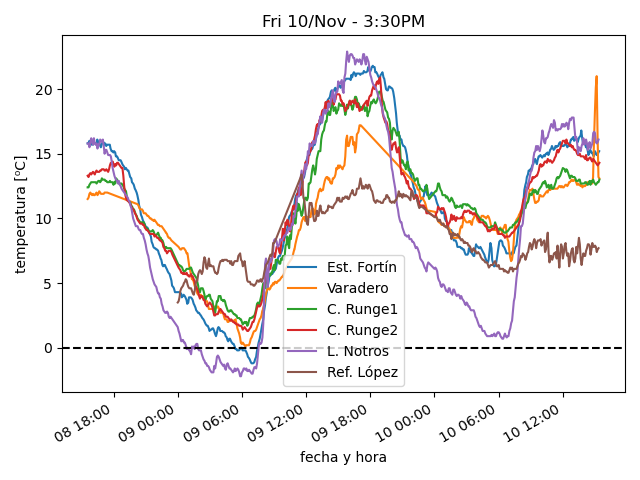
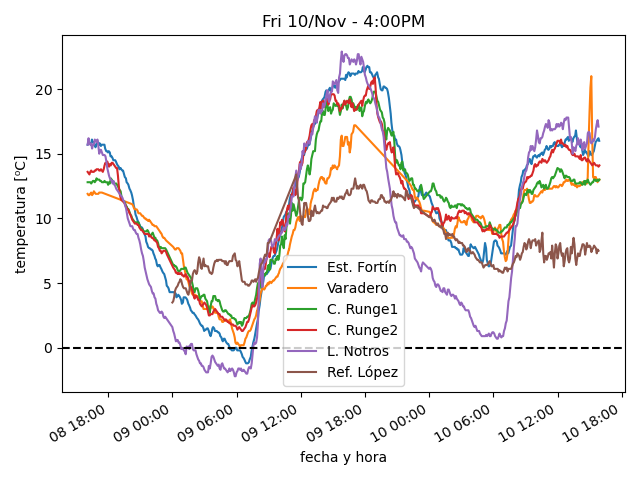
actualiza datos

diff --git a/estaciones/estacion1.html b/estaciones/estacion1.html
@@ -18,32 +18,32 @@
     </tr>
     <tr>
      <td class="stats_data">
-      3:23PM
+      3:53PM
      </td>
     </tr>
     <tr>
      <td class="stats_data">
-      15.2⁰C
+      16.0⁰C
      </td>
     </tr>
     <tr>
      <td class="stats_data">
-      4.2⁰C
+      3.6⁰C
      </td>
     </tr>
     <tr>
      <td class="stats_data">
-      47.5%
+      43.5%
      </td>
     </tr>
     <tr>
      <td class="stats_data">
-      1001.02hPa
+      1000.34hPa
      </td>
     </tr>
     <tr>
      <td class="stats_data">
-      31.5/31.4 km/hr SW
+      19.5/32.2 km/hr WNW
      </td>
     </tr>
     <tr>
@@ -53,12 +53,12 @@
     </tr>
     <tr>
      <td class="stats_data">
-      5.0
+      4.3
      </td>
     </tr>
     <tr>
      <td class="stats_data">
-      847.0 W/m²
+      788.0 W/m²
      </td>
     </tr>
    </tbody>

diff --git a/estaciones/estacion2.html b/estaciones/estacion2.html
@@ -18,32 +18,32 @@
     </tr>
     <tr>
      <td class="stats_data">
-      3:24PM
+      3:54PM
      </td>
     </tr>
     <tr>
      <td class="stats_data">
-      13.1⁰C
+      13.0⁰C
      </td>
     </tr>
     <tr>
      <td class="stats_data">
-      7.0⁰C
+      6.6⁰C
      </td>
     </tr>
     <tr>
      <td class="stats_data">
-      66.4%
+      65.2%
      </td>
     </tr>
     <tr>
      <td class="stats_data">
-      1009.72hPa
+      1009.31hPa
      </td>
     </tr>
     <tr>
      <td class="stats_data">
-      20.5/24.6 km/hr NNW
+      23.7/27.7 km/hr NW
      </td>
     </tr>
     <tr>
@@ -53,12 +53,12 @@
     </tr>
     <tr>
      <td class="stats_data">
-      7.0
+      8.0
      </td>
     </tr>
     <tr>
      <td class="stats_data">
-      753.5 W/m²
+      824.2 W/m²
      </td>
     </tr>
    </tbody>

diff --git a/estaciones/estacion4.html b/estaciones/estacion4.html
@@ -18,32 +18,32 @@
     </tr>
     <tr>
      <td class="stats_data">
-      3:24PM
+      3:54PM
      </td>
     </tr>
     <tr>
      <td class="stats_data">
-      14.3⁰C
+      14.1⁰C
      </td>
     </tr>
     <tr>
      <td class="stats_data">
-      4.5⁰C
+      4.2⁰C
      </td>
     </tr>
     <tr>
      <td class="stats_data">
-      51.7%
+      51.3%
      </td>
     </tr>
     <tr>
      <td class="stats_data">
-      1004.23hPa
+      1003.83hPa
      </td>
     </tr>
     <tr>
      <td class="stats_data">
-      5.3/8.4 km/hr SSW
+      4.5/6.7 km/hr SW
      </td>
     </tr>
     <tr>
@@ -58,7 +58,7 @@
     </tr>
     <tr>
      <td class="stats_data">
-      47.7 W/m²
+      44.2 W/m²
      </td>
     </tr>
    </tbody>

diff --git a/estaciones/estacion6.html b/estaciones/estacion6.html
@@ -18,17 +18,17 @@
     </tr>
     <tr>
      <td class="stats_data">
-      3:20PM
+      3:50PM
      </td>
     </tr>
     <tr>
      <td class="stats_data">
-      7.7⁰C
+      7.5⁰C
      </td>
     </tr>
     <tr>
      <td class="stats_data">
-      0.6⁰C
+      0.4⁰C
      </td>
     </tr>
     <tr>
@@ -38,12 +38,12 @@
     </tr>
     <tr>
      <td class="stats_data">
-      1000.98hPa
+      1000.78hPa
      </td>
     </tr>
     <tr>
      <td class="stats_data">
-      12.9/22.5 km/hr NNE
+      8.0/22.5 km/hr WNW
      </td>
     </tr>
     <tr>
@@ -58,7 +58,7 @@
     </tr>
     <tr>
      <td class="stats_data">
-      889.0 W/m²
+      893.0 W/m²
      </td>
     </tr>
    </tbody>

diff --git a/estaciones/estacion3.html b/estaciones/estacion3.html
@@ -18,7 +18,7 @@
     </tr>
     <tr>
      <td class="stats_data">
-      3:24PM
+      3:54PM
      </td>
     </tr>
     <tr>
@@ -33,17 +33,17 @@
     </tr>
     <tr>
      <td class="stats_data">
-      58.0%
+      57.9%
      </td>
     </tr>
     <tr>
      <td class="stats_data">
-      995.12hPa
+      994.82hPa
      </td>
     </tr>
     <tr>
      <td class="stats_data">
-      15.3/22.1 km/hr NNW
+      14.3/22.2 km/hr NW
      </td>
     </tr>
     <tr>
@@ -53,12 +53,12 @@
     </tr>
     <tr>
      <td class="stats_data">
-      8.0
+      7.0
      </td>
     </tr>
     <tr>
      <td class="stats_data">
-      756.9 W/m²
+      688.0 W/m²
      </td>
     </tr>
    </tbody>

diff --git a/estaciones/estacion5.html b/estaciones/estacion5.html
@@ -18,32 +18,32 @@
     </tr>
     <tr>
      <td class="stats_data">
-      3:20PM
+      3:50PM
      </td>
     </tr>
     <tr>
      <td class="stats_data">
-      16.1⁰C
+      17.1⁰C
      </td>
     </tr>
     <tr>
      <td class="stats_data">
-      6.1⁰C
+      4.7⁰C
      </td>
     </tr>
     <tr>
      <td class="stats_data">
-      52.0%
+      44.0%
      </td>
     </tr>
     <tr>
      <td class="stats_data">
-      1002.13hPa
+      1001.49hPa
      </td>
     </tr>
     <tr>
      <td class="stats_data">
-      0.3/25.6 km/hr SW
+      0.0/6.1 km/hr N
      </td>
     </tr>
     <tr>
